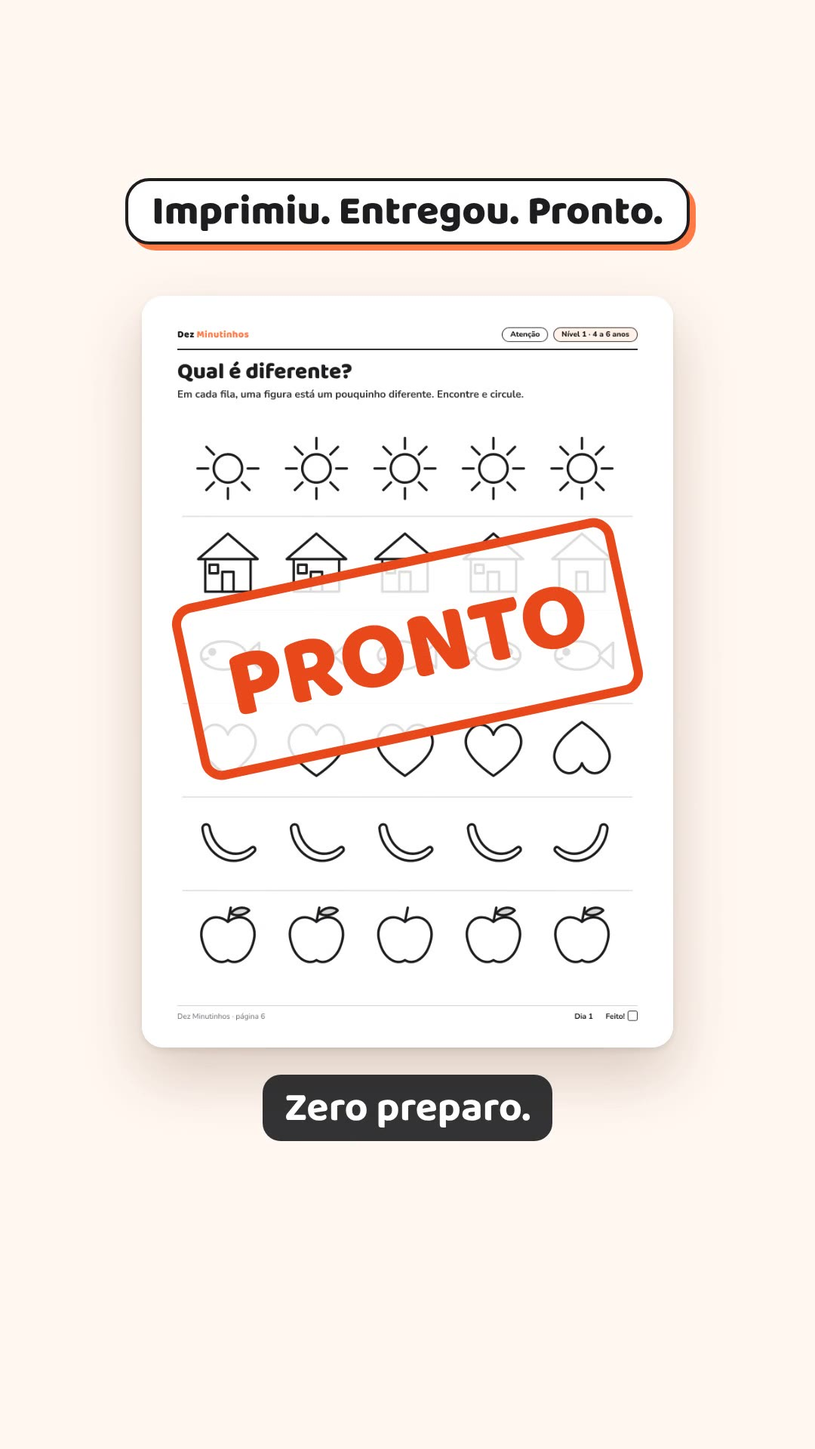
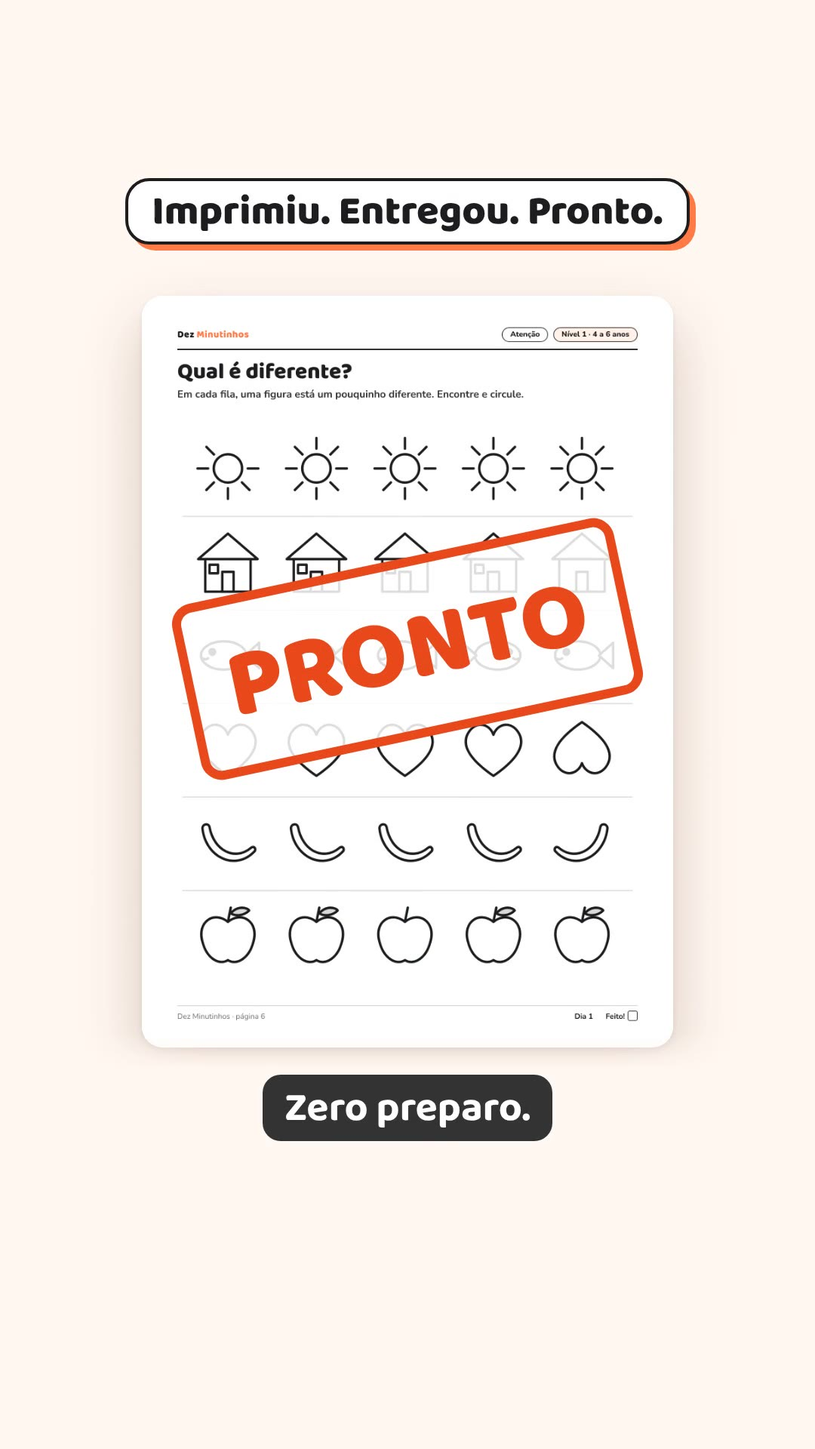
Criativos: correções da rodada 2 (entradas acima da legenda, 'com o quadro', título do A4, roteiros atualizados)
Claude-Session: https://claude.ai/code/session_01DxZEAG6Tfjg4F3k7618x95

Changed region(s): [[0.2139, 0.7188, 0.7944, 0.75]]

diff --git a/ofertas/2026-11-26_atividades-foco/criativos/montador/montador.py b/ofertas/2026-11-26_atividades-foco/criativos/montador/montador.py
@@ -63,7 +63,8 @@ ROTEIROS = {
     ],
     2: [
         F("Imprimiu, entregou, pronto.", "Imprimiu, entregou, pronto.",
-          {"tipo": "carimbo", "pag": 6, "titulo": "Imprimiu. Entregou. Pronto."}),
+          # a página sobe DENTRO da janela (acima da legenda) e já aparece no 1º quadro (miniatura do vídeo)
+          {"tipo": "carimbo", "pag": 6, "sobe": 260, "janela": True, "titulo": "Imprimiu. Entregou. Pronto."}),
         F("Zero preparo.", "Zero preparo."),
         F("O plano já diz | as duas folhas de cada dia.", "O plano já diz | as 2 folhas de cada dia.",
           {"tipo": "partes", "titulo": "O plano já separou as folhas", "partes": [
@@ -88,7 +89,7 @@ ROTEIROS = {
         F("Vídeo de desenho também.", "Vídeo de desenho também.",
           {"tipo": "texto", "escuro": True, "linhas": ["Vídeo de desenho", "também."]}),
         F("Quer o mesmo tipo de desafio, | só que no papel?", "Quer o mesmo tipo de desafio, | só que no papel?",
-          {"tipo": "atividade", "pag": 75, "revelar": False, "entrada": "baixo", "titulo": "O mesmo desafio. No papel."}),
+          {"tipo": "atividade", "pag": 75, "revelar": False, "entrada": "baixo", "janela": True, "titulo": "O mesmo desafio. No papel."}),
         F("Labirinto, sudoku, | sequência, jogo dos sete erros.", "Labirinto, sudoku, | sequência, jogo dos 7 erros.",
           {"tipo": "partes", "partes": [
               {"tipo": "atividade", "pag": 75, "titulo": "Labirinto"},
@@ -116,9 +117,11 @@ ROTEIROS = {
               {"tipo": "atividade", "pag": 13}, {"tipo": "atividade", "pag": 18}]}),
         F("Ligue os pontos.", "Ligue os pontos.", {"tipo": "atividade", "pag": 15, "titulo": "Traçado"}),
         F("Não precisa saber ensinar | nem montar rotina.", "Não precisa saber ensinar | nem montar rotina.",
-          {"tipo": "folheando", "titulo": "Sem saber ensinar · sem montar rotina"}),
-        F("O plano de trinta dias | já vem pronto, | com quadro de conquistas.",
-          "O plano de 30 dias | já vem pronto, | com quadro de conquistas.",
+          {"tipo": "folheando", "titulo": "Sem saber ensinar\nnem montar rotina"}),
+        # a voz diz "com O quadro" (24/24 leituras do whisper large-v3 e medium em recorte; ver correcoes.md,
+        # rodada 2); a legenda segue o áudio, como no "imprime e entrega" do A2
+        F("O plano de trinta dias | já vem pronto, | com o quadro de conquistas.",
+          "O plano de 30 dias | já vem pronto, | com o quadro de conquistas.",
           {"tipo": "partes", "titulo": "Plano pronto · quadro de conquistas", "partes": [
               {"tipo": "pagina", "pag": 5, "zoom": [1.0, 1.3], "foco": [50, 20], "janela": True},
               # zoom pequeno no centro: a página inteira termina acima da legenda (y < 704)
@@ -309,7 +312,7 @@ def html_cena(c):
         return "".join(f'<div class="mini m{i}"><img src="{pag_url(p)}" alt=""><span>{H.escape(r)}</span></div>'
                        for i, (p, r) in enumerate(zip(c["pags"], c["rotulos"])))
     if t == "carimbo":
-        return f'<div class="card pag sobe"><img src="{pag_url(c["pag"])}" alt=""></div><div class="carimbo">PRONTO</div>'
+        return janela(c, f'<div class="card pag sobe"><img src="{pag_url(c["pag"])}" alt=""></div>') + '<div class="carimbo">PRONTO</div>'
     if t == "imagem":
         return f'<img class="foto" src="{(IMG / c["src"]).as_uri()}" alt="">' + (LAPIS if c.get("lapis") else "")
     if t == "numeros":
@@ -339,7 +342,7 @@ html,body{width:540px;height:960px;overflow:hidden;background:#fff7f1;font-famil
 .escuro{background:#1d1d1f}.laranja{background:#ff7a45}
 #titulo{position:absolute;left:24px;right:24px;top:118px;z-index:5;text-align:center;display:none}
 #titulo span{display:inline-block;background:#fff;border:2.5px solid #1d1d1f;border-radius:16px;padding:6px 16px 4px;
-  font-family:'Baloo 2';font-weight:800;font-size:27px;line-height:1.1;box-shadow:4px 4px 0 #ff7a45;text-wrap:balance}
+  font-family:'Baloo 2';font-weight:800;font-size:27px;line-height:1.1;box-shadow:4px 4px 0 #ff7a45;text-wrap:balance;white-space:pre-line}
 #legenda{position:absolute;left:22px;right:22px;top:712px;height:100px;z-index:6;display:flex;align-items:flex-start;justify-content:center}
 #legenda span{background:rgba(29,29,31,.9);color:#fff;font-family:'Baloo 2';font-weight:700;font-size:27px;line-height:1.18;
   padding:7px 14px 5px;border-radius:12px;text-align:center;max-width:496px;text-wrap:balance}
@@ -442,7 +445,7 @@ const A = {
   carimbo(el, c, p, dt) {
     const card = el.querySelector('.card'), s = el.querySelector('.carimbo');
     const u = ease(cl(p / 0.42));
-    card.style.transform = `translateY(${(1 - u) * 760}px)`;
+    card.style.transform = `translateY(${(1 - u) * (c.sobe ?? 760)}px)`;
     const k = cl((p - 0.52) / 0.1);
     s.style.opacity = k; s.style.transform = `translate(-50%,-50%) rotate(-12deg) scale(${2.2 - 1.2 * ease(k)})`;
   },

diff --git a/ofertas/2026-11-26_atividades-foco/criativos/roteiros.md b/ofertas/2026-11-26_atividades-foco/criativos/roteiros.md
@@ -12,14 +12,17 @@ Etapa 6 (roteiros) · 2026-11-26 · base: `briefing.md` (5 ângulos), `dossie.md
   2,5 palavras por segundo. Se a fala passar do tempo, corte palavra, não acelere a voz.
 - **Imagens: só o produto real.** Páginas do PDF `final/dez-minutinhos.pdf` (número da página
   indicado em cada cena), `pagina/img/mockup-capa.png`, `pagina/img/mockup-pacote.png`,
-  `pagina/img/amostra-nivel1.jpg`, `pagina/img/amostra-nivel2.jpg`, `pagina/img/folheando.gif` e o
-  vídeo `folheando.mp4` (caminho a confirmar; supus `pagina/img/folheando.mp4`).
+  `pagina/img/folheando.gif` e o
+  vídeo `pagina/img/folheando.mp4`. Os vídeos são montados por `criativos/montador/montador.py` (as tabelas
+  abaixo descrevem o que foi montado; tempos reais da fala).
   Animações feitas sobre as páginas: traço de lápis resolvendo o labirinto, círculos aparecendo,
   folha dobrando. Se aparecer mão ou lápis, só em ilustração plana simples.
 - **Proibido em cena:** rosto de criança, qualquer pessoa real, "mãe" ou "criança" gerada por IA,
   cena gerada que pareça real, celular/tablet fotorrealista (a "tela" dos ganchos é só tipografia).
 - **Texto na tela:** fonte da página, fundo claro, no máximo 7 palavras por vez, fora das áreas de
-  interface do Reels/Stories (margem de 250 px em cima e 340 px embaixo).
+  interface do Reels/Stories: **título abaixo de 200 px do topo e legenda acima de 250 px da base** (a mesma
+  regra da skill `revisar-criativos`). Medido nos 4 vídeos (2026-11-28, todos os quadros a 2 por segundo): o texto
+  mais alto começa em y 236 e o mais baixo termina em y 1583 (336 px acima da base).
 - **Cartão final (igual nos 4 vídeos):** `mockup-capa.png` + "Dez Minutinhos" + "120 atividades
   para imprimir · 4 a 10 anos" + "R$ 37,00" + "Garantia de 7 dias" + botão desenhado "Toque em Saiba mais".
   A legenda do fecho fica clara e bem abaixo do botão (só o botão é escuro). Montado assim desde 2026-11-28 (rodada 2 dos criativos).
@@ -36,10 +39,10 @@ Resumo:
 
 | # | Ângulo | Modela | Gancho (0–3 s) | Fala | Vídeo |
 |---|---|---|---|---|---|
-| 1 | Curiosidade | 1534227 | "Isto é o que cabe em dez minutinhos de papel e lápis." | 58 palavras ≈ 23 s | 25 s |
-| 2 | Objeção: preparo e preço | 1534245 | "Imprimiu, entregou, pronto. Zero preparo." | 57 palavras ≈ 23 s | 25 s |
-| 3 | Objeção: tela | 1534248 | "App educativo continua sendo tela." | 53 palavras ≈ 21 s | 23 s |
-| 4 | Desejo: troca | 1534234 | "Troque dez minutos de tela por dez minutos disto." | 52 palavras ≈ 21 s | 22 s |
+| 1 | Curiosidade | 1534227 | "Isto é o que cabe em dez minutinhos de papel e lápis." | 58 palavras · 21,1 s gravados | 22,1 s |
+| 2 | Objeção: preparo e preço | 1534245 | "Imprimiu, entregou, pronto. Zero preparo." | 57 palavras · 20,6 s gravados | 21,6 s |
+| 3 | Objeção: tela | 1534248 | "App educativo continua sendo tela." | 53 palavras · 21,9 s gravados | 22,9 s |
+| 4 | Desejo: troca | 1534234 | "Troque dez minutos de tela por dez minutos disto." | 53 palavras · 21,5 s gravados | 22,5 s |
 | 5 | Ocasião: férias (estático) | 1599489 | "Férias. O que tem para fazer hoje?" (escrito) | — | — |
 
 ---
@@ -59,11 +62,14 @@ a curiosidade vem do próprio produto aparecendo.
 
 | Tempo | Mídia real | Texto na tela | Narração |
 |---|---|---|---|
-| 0–4,5 s | Labirinto N1 (p. 7), traço animado do início até a saída | Isto cabe em 10 minutinhos | Isto é o que cabe em dez minutinhos de papel e lápis. |
-| 4,5–9 s | Cortes de ~1 s: memória "Olhe e lembre" (p. 11) → sudoku de figuras (p. 18) → código secreto N2 (p. 78), cada um com uma animação curta (círculo, figura entrando na casa, letra aparecendo) | Labirinto · Memória · Sudoku · Código secreto (uma palavra por corte) | Um labirinto. Um jogo de memória. Um sudoku. Um código secreto. |
-| 9–14 s | `folheando.mp4` | 120 atividades · 4 a 10 anos | Cento e vinte atividades prontas para imprimir, de quatro a dez anos. |
-| 14–19,5 s | Plano de 30 dias N1 (p. 5), zoom na linha do Dia 1 → miniaturas das p. 6 e 7 | Plano de 30 dias · 2 folhas por dia | O plano de trinta dias já diz as duas folhas de cada dia. |
-| 19,5–25 s | Cartão final | Dez Minutinhos · R$ 37,00 · Saiba mais | Dez Minutinhos, trinta e sete reais. Toque em saiba mais. |
+| 0–3,4 s | Labirinto N1 (p. 7), caminho do gabarito se desenhando | Isto cabe em 10 minutinhos | Isto é o que cabe em dez minutinhos de papel e lápis. |
+| 3,4–4,5 s | Labirinto N2 (p. 75), caminho se desenhando | Labirinto | Um labirinto. |
+| 4,5–5,8 s | Memória "Olhe e lembre" (p. 11), resposta aparecendo | Memória | Um jogo de memória. |
+| 5,8–6,8 s | Sudoku de figuras (p. 18), figuras entrando | Sudoku | Um sudoku. |
+| 6,8–8,5 s | Código secreto N2 (p. 78), letras aparecendo | Código secreto | Um código secreto. |
+| 8,5–13,1 s | `folheando.mp4` | 120 atividades · 4 a 10 anos | Cento e vinte atividades prontas para imprimir, de quatro a dez anos. |
+| 13,1–16,7 s | Plano de 30 dias N1 (p. 5), zoom no Dia 1 (dentro da janela acima da legenda) → p. 6 e 7 lado a lado ("Dia 1 · folha 1/2") | Plano de 30 dias · 2 folhas por dia | O plano de trinta dias já diz as duas folhas de cada dia. |
+| 16,7–22,1 s | Cartão final | — (cartão) | Dez Minutinhos, trinta e sete reais. Toque em saiba mais. |
 
 **Chamada final:** "Dez Minutinhos, trinta e sete reais. Toque em saiba mais."
 
@@ -73,7 +79,7 @@ a curiosidade vem do próprio produto aparecendo.
 > O plano de trinta dias já diz as duas folhas de cada dia. Dez Minutinhos, trinta e sete reais.
 > Toque em saiba mais.
 
-58 palavras ≈ 23 s de fala.
+58 palavras · 21,1 s de fala gravada.
 
 **Anúncio**
 - **Texto principal:**
@@ -99,19 +105,22 @@ curta de impacto → o que é → "monta em menos de 5 minutos" (aqui: zero prep
 R$ 37,00 ÷ 30 = R$ 1,23) → link. Sai a prova social difusa e a promessa de "calma e confiança".
 
 **Gancho (0–3 s)**
-- Visual: a página "Qual é diferente?" (N1, p. 6) sobe de baixo da tela como se saísse da
-  impressora (sem impressora na cena) e recebe um carimbo desenhado "PRONTO".
+- Visual: a página "Qual é diferente?" (N1, p. 6) sobe como se saísse da impressora (sem impressora
+  na cena), dentro da janela acima da legenda, e recebe um carimbo desenhado "PRONTO". No 1º quadro
+  (miniatura) já aparecem o título e a instrução da página, sem nada por cima.
 - Escrito: **"Imprimiu. Entregou. Pronto."**
 - Falado: "Imprimiu, entregou, pronto. Zero preparo."
 
 | Tempo | Mídia real | Texto na tela | Narração |
 |---|---|---|---|
-| 0–3 s | Página p. 6 subindo + carimbo "PRONTO" | Imprimiu. Entregou. Pronto. | Imprimiu, entregou, pronto. Zero preparo. |
-| 3–7 s | Plano N1 (p. 5), destaque no Dia 1 → p. 6 e p. 7 lado a lado | O plano já separou as folhas | O plano já diz as duas folhas de cada dia. |
-| 7–10 s | `mockup-pacote.png` + lápis ilustrado (plano, sem mão) entrando pela lateral | Abre · imprime · entrega | Abre, imprime e entrega com um lápis. (a voz gravada diz "e"; a legenda segue o áudio) |
-| 10–13 s | Gabarito (p. 128), zoom numa resposta | Gabarito completo | As respostas estão no gabarito. |
-| 13–19,5 s | `mockup-capa.png`; números entram em sequência | 120 atividades · R$ 37,00 → R$ 1,23 por dia no plano de 30 dias | Cento e vinte atividades por trinta e sete reais. Um real e vinte e três por dia, no plano de trinta dias. |
-| 19,5–25 s | `folheando.mp4` → cartão final | Imprime de novo quando quiser · Saiba mais | E imprime de novo quando quiser. Toque em saiba mais. |
+| 0–3,5 s | Página p. 6 subindo (dentro da janela) + carimbo "PRONTO" | Imprimiu. Entregou. Pronto. | Imprimiu, entregou, pronto. Zero preparo. |
+| 3,5–6,2 s | Plano N1 (p. 5), zoom no Dia 1 → p. 6 e p. 7 lado a lado | O plano já separou as folhas | O plano já diz as duas folhas de cada dia. |
+| 6,2–9,0 s | `mockup-pacote.png` + lápis ilustrado (plano, sem mão) entrando pela lateral | Abre · imprime · entrega | Abre, imprime e entrega com um lápis. (a voz gravada diz "e"; a legenda segue o áudio) |
+| 9,0–10,9 s | Gabarito (p. 128), zoom numa resposta | Gabarito completo | As respostas estão no gabarito. |
+| 10,9–14,0 s | `mockup-capa.png`; "120 atividades" e depois "R$ 37,00" | Uma vez só | Cento e vinte atividades por trinta e sete reais. |
+| 14,0–17,3 s | `mockup-capa.png`; "R$ 1,23" e depois "por dia no plano / de 30 dias" (sem seta entre os preços) | Faça a conta | Um real e vinte e três por dia, no plano de trinta dias. |
+| 17,3–19,2 s | `folheando.mp4` | Imprime de novo quando quiser | E imprime de novo quando quiser. |
+| 19,2–21,6 s | Cartão final | — (cartão) | Toque em saiba mais. |
 
 **Chamada final:** "E imprime de novo quando quiser. Toque em saiba mais."
 
@@ -121,7 +130,7 @@ R$ 37,00 ÷ 30 = R$ 1,23) → link. Sai a prova social difusa e a promessa de "c
 > trinta e sete reais. Um real e vinte e três por dia, no plano de trinta dias. E imprime de novo
 > quando quiser. Toque em saiba mais.
 
-57 palavras ≈ 23 s de fala.
+57 palavras · 20,6 s de fala gravada.
 
 **Anúncio**
 - **Texto principal:**
@@ -158,11 +167,12 @@ inventado (CLAUDE.md, regra 3). A "dor" da criança que não para sentada sai; f
 
 | Tempo | Mídia real | Texto na tela | Narração |
 |---|---|---|---|
-| 0–4 s | Tipografia animada (sem aparelho na cena) | App educativo = tela · Vídeo também | App educativo continua sendo tela. Vídeo de desenho também. |
-| 4–8 s | Labirinto N2 (p. 75) entra por cima do texto e ocupa a tela | O mesmo desafio. No papel. | Quer o mesmo tipo de desafio, só que no papel? |
-| 8–12 s | Cortes de ~1 s: labirinto p. 75 com traço → sudoku 6×6 (p. 69) com números entrando → "O que vem depois?" (p. 8) → jogo dos 7 erros (p. 68) com círculos aparecendo | Labirinto · Sudoku · Sequência · 7 erros | Labirinto, sudoku, sequência, jogo dos sete erros. |
-| 12–18,5 s | Tela dividida: `amostra-nivel1.jpg` em cima, `amostra-nivel2.jpg` embaixo | Nível 1 · 4 a 6 anos · sem leitura / Nível 2 · 7 a 10 anos | Dois níveis: de quatro a seis anos, sem precisar ler, e de sete a dez. |
-| 18,5–23 s | Cartão final | Dez Minutinhos · 120 atividades · Saiba mais | Dez Minutinhos: cento e vinte atividades para imprimir. Toque em saiba mais. |
+| 0–2,5 s | Tipografia em fundo escuro: "App educativo", "educativo" riscado, "= tela" (sem aparelho na cena) | — (tipografia) | App educativo continua sendo tela. |
+| 2,5–4,2 s | Tipografia em fundo escuro: "Vídeo de desenho / também." | — (tipografia) | Vídeo de desenho também. |
+| 4,2–7,0 s | Labirinto N2 (p. 75) sobe de baixo, dentro da janela acima da legenda | O mesmo desafio. No papel. | Quer o mesmo tipo de desafio, só que no papel? |
+| 7,0–11,2 s | Cortes de ~1 s: labirinto p. 75 com traço → sudoku 6×6 (p. 69) com números entrando → "O que vem depois?" (p. 8) → jogo dos 7 erros (p. 68) com círculos aparecendo | Labirinto · Sudoku · Sequência · 7 erros | Labirinto, sudoku, sequência, jogo dos sete erros. |
+| 11,2–16,3 s | Duas páginas lado a lado: p. 6 (Nível 1) e p. 78 (Nível 2) | Dois níveis (rótulos: "Nível 1 · 4 a 6 anos · sem leitura" / "Nível 2 · 7 a 10 anos") | Dois níveis: de quatro a seis anos, sem precisar ler, e de sete a dez. |
+| 16,3–22,9 s | Cartão final | — (cartão) | Dez Minutinhos: cento e vinte atividades para imprimir. Toque em saiba mais. |
 
 **Chamada final:** "Dez Minutinhos: cento e vinte atividades para imprimir. Toque em saiba mais."
 
@@ -172,7 +182,7 @@ inventado (CLAUDE.md, regra 3). A "dor" da criança que não para sentada sai; f
 > sem precisar ler, e de sete a dez. Dez Minutinhos: cento e vinte atividades para imprimir. Toque
 > em saiba mais.
 
-53 palavras ≈ 21 s de fala.
+53 palavras · 21,9 s de fala gravada.
 
 **Anúncio**
 - **Texto principal:**
@@ -200,31 +210,32 @@ sendo feitas → "não precisa ser professor nem rotina complicada" → link. Sa
 trocando…" (prova social difusa); a troca vira convite direto.
 
 **Gancho (0–3 s)**
-- Visual: tipografia "10 min de TELA" em fundo escuro → corte seco (com som de "clique") para a
+- Visual: tipografia "10 min de TELA" em fundo escuro → corte seco para a
   página "O que vem depois?" (N1, p. 8), fundo claro, com "10 min DISTO".
 - Escrito: **"10 min de tela → 10 min disto"**
 - Falado: "Troque dez minutos de tela por dez minutos disto."
 
 | Tempo | Mídia real | Texto na tela | Narração |
 |---|---|---|---|
-| 0–3,5 s | Tipografia escura → corte seco → p. 8 | 10 min de tela → 10 min disto | Troque dez minutos de tela por dez minutos disto. |
-| 3,5–5 s | p. 8, lápis ilustrado completando a sequência | Padrões | Padrões para completar. |
-| 5–8 s | "Olhe e lembre" (p. 11): a folha dobra na linha (animação) e a pergunta aparece | Memória | Memória: olha, dobra a folha e responde. |
-| 8–10 s | Labirinto (p. 13) com traço → sudoku de figuras (p. 18) | Lógica | Lógica, com labirinto e sudoku. |
-| 10–11,5 s | Ligue os pontos (p. 15), traço ligando os números até formar o desenho | Traçado | Ligue os pontos. |
-| 11,5–14,5 s | `folheando.mp4` | Sem saber ensinar · Sem montar rotina | Não precisa saber ensinar nem montar rotina. |
-| 14,5–19 s | Plano de 30 dias (p. 5) → quadro de conquistas (p. 142) → certificado (p. 143) | Plano de 30 dias pronto · quadro de conquistas | O plano de trinta dias já vem pronto, com quadro de conquistas. |
-| 19–22 s | Cartão final | Dez Minutinhos · Saiba mais | Dez Minutinhos. Toque em saiba mais. |
+| 0–3,3 s | Tipografia escura "10 min / de tela" → corte seco → p. 8 | — (tipografia) → 10 min disto | Troque dez minutos de tela por dez minutos disto. |
+| 3,3–4,9 s | p. 8 com a resposta aparecendo | Padrões | Padrões para completar. |
+| 4,9–8,1 s | "Olhe e lembre" (p. 11): zoom do quadro de cima para a página toda, resposta aparecendo | Memória | Memória: olha, dobra a folha e responde. |
+| 8,1–10,5 s | Labirinto (p. 13) com traço → sudoku de figuras (p. 18) | Lógica | Lógica, com labirinto e sudoku. |
+| 10,5–11,8 s | Ligue os pontos (p. 15), traço ligando os números até formar o desenho | Traçado | Ligue os pontos. |
+| 11,8–14,6 s | `folheando.mp4` | Sem saber ensinar / nem montar rotina (2 linhas) | Não precisa saber ensinar nem montar rotina. |
+| 14,6–18,5 s | Plano de 30 dias (p. 5) → quadro de conquistas (p. 142) → certificados (p. 143) | Plano pronto · quadro de conquistas | O plano de trinta dias já vem pronto, com o quadro de conquistas. (a voz gravada diz "com o"; a legenda segue o áudio) |
+| 18,5–22,5 s | Cartão final | — (cartão) | Dez Minutinhos. Toque em saiba mais. |
 
 **Chamada final:** "Dez Minutinhos. Toque em saiba mais."
 
 **Narração completa:**
 > Troque dez minutos de tela por dez minutos disto. Padrões para completar. Memória: olha, dobra a
 > folha e responde. Lógica, com labirinto e sudoku. Ligue os pontos. Não precisa saber ensinar nem
-> montar rotina. O plano de trinta dias já vem pronto, com quadro de conquistas. Dez Minutinhos.
+> montar rotina. O plano de trinta dias já vem pronto, com o quadro de conquistas. Dez Minutinhos.
 > Toque em saiba mais.
 
-52 palavras ≈ 21 s de fala.
+53 palavras · 21,5 s de fala gravada. (O texto enviado à voz foi "com quadro"; a gravação diz "com o", e o
+roteiro e a legenda seguem o áudio. Ver `revisoes/criativos-2026-11-28/correcoes.md`, rodada 2.)
 
 **Anúncio**
 - **Texto principal:**
@@ -313,5 +324,4 @@ secreto p. 78; 5) plano p. 5 "30 dias · 2 folhas por dia · R$ 37,00".
   gabarito (p. 128), quadro de conquistas (p. 142), certificados (p. 143), bônus 2 (p. 146).
 - Código secreto, caça-palavras, sudoku 6×6 e jogo dos 7 erros são do Nível 2; nos criativos 1 e 3
   eles aparecem na lista geral, sem atribuir a idade errada.
-- Pendências: confirmar o caminho de `folheando.mp4`; definir UTMs; o título do criativo 4 depende
-  da escolha final do título da página pelo dono.
+- Pendência: definir UTMs (Etapa 7).

diff --git a/ofertas/2026-11-26_atividades-foco/revisoes/criativos-2026-11-28/correcoes.md b/ofertas/2026-11-26_atividades-foco/revisoes/criativos-2026-11-28/correcoes.md
@@ -66,3 +66,80 @@ sha256 (início): mp4 1 `998a9b40…`, 2 `6c27ae78…`, 3 `bcf87fbc…`, 4 `b84f
 
 **Fica para a revisão da rodada 2:** pela skill, todos os criativos que mudaram (os 4 vídeos, as 2 imagens e os textos dos
 anúncios 1, 2, 4 e 5) têm de ser revisados de novo. Esta correção não substitui essa revisão. Só depois vem o Portão C.
+
+## Rodada 2
+
+- Data: 2026-11-28 · Base: `rodada2.md` (6 cosméticos: A2-1, A3-1, A4-1, A4-2, C-1, R-1). Os 6 corrigidos; nenhum "aceito como está".
+- Material intocado: `python3 ferramentas/conferir_material.py ofertas/2026-11-26_atividades-foco` → "MATERIAL APROVADO" (8 PDFs).
+- Nada publicado, nada enviado à Meta nem à Hotmart. Sem commit e sem push.
+- **Remontados só os vídeos 2, 3 e 4**, com o mesmo áudio e a mesma duração (21,63 / 22,90 / 22,50 s) e as mesmas fronteiras
+  em pausas (8/8, 6/6, 8/8). O A1 e o A5 (estáticos) não mudaram: a C-1 foi resolvida no roteiro, porque os 4 vídeos já cumprem a regra da skill.
+
+| Item | Arquivo | O que foi feito | Conferido |
+|---|---|---|---|
+| A2-1 · página do A2 sobe por baixo da legenda (0,0–0,9 s) e miniatura | `criativos/montador/montador.py` (cena `carimbo`: opções `janela` e `sobe`) | A p. 6 sobe **dentro da `janela`** (termina em y 1416 com fade, acima da legenda em y 1424) e parte de 260 px abaixo da posição final (era 760 px, fora da tela). No 1º quadro (miniatura) já aparecem o título "Imprimiu. Entregou. Pronto.", o cabeçalho, "Qual é diferente?" e a instrução "Em cada fila…", sem nada por cima; a legenda só entra aos 0,02 s, também abaixo da página. O carimbo "PRONTO" fica fora da janela (não é cortado) | Quadros de 0,0 a 1,2 s a cada 0,1 s; quadro 0,0 s em tamanho grande; folha do A2 a 2 qps |
+| A3-1 · p. 75 passa sob a legenda (4,25–4,6 s) | `montador.py` (cena do A3 com `entrada: "baixo"` agora com `janela`) | A entrada de baixo roda dentro da `janela`: o labirinto aparece saindo da linha acima da legenda e nunca passa por baixo dela | Quadros de 4,20 a 4,80 s a cada 1/15 s (10 quadros); folha do A3 a 2 qps |
+| A4-1 · "com quadro" × "com o quadro" (16,9–18,5 s) | `montador.py` (narração e legenda), `criativos/roteiros.md` | **Legenda passou a "com o quadro de conquistas."** (5 palavras, 1 linha, entra aos 17,05 s). O roteiro também. Áudio sem mudança. Decisão e evidência abaixo | Quadro 17,5 s em tamanho grande; folha do A4 a 2 qps; tempos em `montador/tmp/anuncio-4-amandinha.json` |
+| A4-2 · título com "·" pendurado e sem margem (11,8–14,6 s) | `montador.py` (título da cena `folheando` do A4 e CSS do `#titulo`) | Título em 2 linhas fixas, sem "·": "Sem saber ensinar" / "nem montar rotina" (como a fala). O `#titulo` aceita quebra explícita (`white-space: pre-line`); nenhum outro título tem quebra, então nada mais muda. A caixa vai de x ≈ 274 a 806 px: margem lateral de ~274 px (os outros ficam a ≥ 150 px) | Quadro 12,5 s em tamanho grande; folha do A4 (12,0–14,5 s) |
+| C-1 · margem do roteiro ≠ skill | `criativos/roteiros.md` (Regras de produção, "Texto na tela") | Regra única, a da skill `revisar-criativos`: título abaixo de 200 px do topo e legenda acima de 250 px da base | Medido por pixel em **todos** os quadros a 2 qps dos 4 vídeos (44 + 43 + 46 + 45): o conteúdo mais alto começa em y 236 nos 4 e o mais baixo termina em y 1583 nos 4 (336 px acima da base). Os 4 cumprem |
+| R-1 · roteiro desatualizado | `criativos/roteiros.md` | Tabelas de cena refeitas pelo vídeo montado, com os tempos reais das frases (`montador/tmp/anuncio-N-amandinha.json`): **A1** com uma linha por corte, incluindo o labirinto N2 (p. 75) aos 3,4 s; **A2** sem a seta entre preços, com os títulos "Uma vez só" (10,9–14,0 s) e "Faça a conta" (14,0–17,3 s) e a página subindo dentro da janela; **A3** com a p. 6 e a p. 78 lado a lado (sem `amostra-nivel1/2.jpg`) e as duas telas de tipografia separadas; **A4** com o título novo, a fala "com o quadro" e sem o "som de clique" (os vídeos não têm efeito sonoro). Resumo: vídeos de 22,1 / 21,6 / 22,9 / 22,5 s e fala gravada de 21,1 / 20,6 / 21,9 / 21,5 s. Saíram as pendências resolvidas (caminho do `folheando.mp4`, título do criativo 4) e as amostras que não aparecem em nenhum criativo; ficou só "definir UTMs" | Roteiro relido inteiro contra as folhas de contato dos 4 vídeos e o `videos/LEIA.md` |
+
+### Decisão do item A4-1: "com **o** quadro"
+
+Trecho ouvido: 16,5–18,0 s (e recortes de 16,3–18,3 s e 15,5–18,5 s), no `audio/amandinha-4.mp3` e no áudio do próprio `.mp4`.
+
+- **Leituras do faster-whisper com tempo por palavra (beam 5 e beam 1, sem contexto anterior):**
+  - large-v3: 12 de 12 leituras ouvem "com **o** quadro" (probabilidade do "o" entre 0,73 e 0,96).
+  - medium: 12 de 12 ouvem o "o" (0,72 a 0,86).
+  - Total: **24 de 24** em recorte. Na rodada 2, só o small e o large-v3 no arquivo inteiro não ouviram.
+- **Análise do sinal** (energia e periodicidade a cada 5 ms e espectrograma de 16,7 a 17,4 s; trabalho em
+  `/tmp/claude-0/-home-user/2250d25c-d581-568f-b4e4-6cb893f20944/scratchpad/r3/espectro*.png`):
+  - "pronto" termina em ~16,92 s;
+  - estouro do /k/ de "com" em ~17,00 s;
+  - vogal nasal forte de 17,04 a 17,13 s (~90 ms, cerca de −20 dB);
+  - **segmento sonoro fraco de ~60 ms (17,14–17,20 s, cerca de −40 dB)**;
+  - fechamento e estouro do /k/ de "quadro" em 17,21–17,25 s.
+  - Para comparar, o "com" de "com labirinto" (9,04–9,20 s, mesmo áudio) tem ~160 ms de vogal forte contínua. Aqui o
+    trecho sonoro entre os dois /k/ também tem ~160 ms, mas em duas partes, e a segunda é fraca.
+- **Leitura da análise:**
+  - Não aparece uma vogal "o" plena e separada (60–120 ms com a força de uma vogal).
+  - O segmento de ~60 ms entre a vogal nasal e o /k/ é compatível com o "o" átono fundido ao "com" ([kõũ], o
+    "co'o" do português falado). Também seria compatível com o fim nasal do "com". O sinal sozinho não decide.
+- **Decisão:** legenda e roteiro passam a **"com o quadro de conquistas."**
+  - Todas as leituras de modelo ouvem o "o", e o sinal tem a duração mínima de um "o" fundido.
+  - Quem assiste tende a ouvir "com o", como o whisper. A legenda "com o" não fica errada nem se a voz tiver dito "com"
+    fundido, porque o "o" átono fundido é a pronúncia normal de "com o".
+  - Mesmo critério do "imprime e entrega" do A2: a legenda segue o áudio, sem regravar.
+  - O texto enviado ao ElevenLabs foi "com quadro" (`roteiros.md` antigo).
+  - Se o dono ouvir 17,0–17,3 s e preferir "com quadro", basta voltar o texto no `montador.py` e remontar só o A4.
+
+### Arquivos regenerados (rodada 2)
+
+| Arquivo | sha256 |
+|---|---|
[3 lines of base64/hex data omitted]
+| `criativos/videos/quadro-anuncio-2.jpg` (3,2 s, `-q:v 3`) | `6d92d52b5043…` |
+| `criativos/videos/quadro-anuncio-4.jpg` (11,1 s, `-q:v 3`) | `2be7a930fbfb…` |
+
+- `qc.py` rodou nos 3 vídeos: 1080×1920, 30 fps, h264 + aac, pico −1,5 dB, durações iguais às de antes.
+- Sem mudança:
+  - `anuncio-1-amandinha.mp4` (`998a9b40…`) e `quadro-anuncio-1.jpg`;
+  - `quadro-anuncio-3.jpg`: o quadro de 1,4 s do vídeo novo é idêntico pixel a pixel ao anterior;
+  - as 2 imagens estáticas.
+- Os quadros 2 e 4 mostram a mesma cena de antes. Foram refeitos porque o .mp4 mudou.
+
+### Como foi olhado (rodada 2)
+
+- **Folhas de contato a 2 qps** dos vídeos 2, 3 e 4 inteiros (44 + 47 + 46 quadros), depois da montagem final.
+- **Entradas em alta frequência:**
+  - A2 de 0,0 a 1,2 s (13 quadros, a cada 0,1 s);
+  - A3 de 4,20 a 4,80 s (10 quadros, a cada 1/15 s).
+- **Quadros grandes (1080×1920):** A2 0,0 s (miniatura), A4 12,5 s (título novo) e A4 17,5 s (legenda "com o quadro de conquistas.").
+- **Os 2 quadros de referência novos.**
+- **Medição por pixel da área segura** em todos os quadros a 2 qps dos 4 vídeos (item C-1).
+
+**Fica para a rodada 3:**
+- revisar os vídeos 2, 3 e 4 e o `roteiros.md`;
+- o A1 e o A5 não mudaram (pela R12, da 4ª rodada em diante só o que mudou).

diff --git a/ofertas/2026-11-26_atividades-foco/status.md b/ofertas/2026-11-26_atividades-foco/status.md
@@ -51,3 +51,4 @@ Legenda: ⬜ a fazer · 🟡 em andamento · ✅ feito · ❌ reprovado/voltou
 - 2026-11-28 (Etapa 4b, correção da rodada 3): pendências dos 3 relatórios `rodada3-*.md` corrigidas no gerador e no montador. Trava nova no "O que vem depois?" (fila igual, girada ou deslocada não repete no caderno, no Volume 2 nem entre os dois; assert nos dois geradores); 9 cosméticos dos bumps; zoom dos anúncios 1 e 2 sem cortar a página. PDFs (caderno, bumps 3–6, Volume 2), zips, anúncios 1 e 2 e `quadro-anuncio-2.jpg` refeitos, só no local (nada publicado, nada enviado à Hotmart nem à Meta, sem commit). Paginação igual. Páginas alteradas em `revisoes/material-2026-11-28/correcoes.md` ("Rodada 3"). Motivo: regra 7. Pendente: revisão só das páginas que mudaram, Portão M e depois as trocas na Hotmart e na Meta.
 - 2026-11-28 (P2 dos criativos, Portão C 1.3–1.4): conformidade e textos dos 5 anúncios **aprovados com ajustes**. Motivo: nenhum atributo pessoal, promessa de resultado/saúde, antes/depois, urgência, prova inventada ou cópia da referência; voz sintética como narradora, sem pessoa realista, logo sem declaração de IA (tabela de ajustes do CLAUDE.md). Ajustes só de texto: A1 promete 4 atividades em 10 minutos (o plano é 2 folhas), A2 descrição só com R$ 1,23/dia, A4 sem "uma vez só", mais 6 cosméticos. Fora dos criativos: os anúncios A1–A5 já criados (pausados) usam os vídeos antigos e os IDs de vídeo em `campanha.md` não batem entre as duas tabelas; falta "Anunciante e pagador". Não ativar. Detalhes em `revisoes/criativos-2026-11-28/conformidade-e-textos.md`.
 - 2026-11-28 (Etapa 6b, correção da rodada 1 dos criativos): todos os itens de `revisoes/criativos-2026-11-28/conformidade-e-textos.md` e `tecnica-e-verdade.md` corrigidos, inclusive os cosméticos. Textos dos anúncios 1, 2 e 4 trocados pelo texto pronto da conformidade. Os 4 vídeos foram remontados com o mesmo áudio e a mesma duração: legenda no tempo real das palavras, zoom sem passar por baixo da legenda, "Memória" do A4, e fecho com "Garantia de 7 dias" e sem pílulas escuras empilhadas. `quadro-anuncio-1..4.jpg` refeitos. Estático 4:5 refeito (leque p. 7/68/78 do PDF aprovado, plano em texto) e 1:1 criado. A5 só de 2026-12-15 a 2027-02-28. Em `campanha.md`, aviso de que os anúncios pausados usam vídeos antigos. Material intocado ("MATERIAL APROVADO"). Nada publicado, nada enviado à Meta nem à Hotmart, sem commit. Detalhes em `revisoes/criativos-2026-11-28/correcoes.md`. Motivo: regra 7 (Portão C). Pendente: rodada 2 da revisão dos criativos que mudaram, Portão C e depois a troca de mídia e de textos nos 5 anúncios.
+- 2026-11-28 (Etapa 6b, correção da rodada 2 dos criativos): os 6 cosméticos de `revisoes/criativos-2026-11-28/rodada2.md` corrigidos (seção "Rodada 2" do `correcoes.md`). Vídeos 2, 3 e 4 remontados com o mesmo áudio e duração; A1 e A5 sem mudança. Decisão: a legenda do A4 passa a "com o quadro de conquistas" (24/24 leituras do whisper em recorte ouvem o "o"; o sinal mostra um "o" fundido, sem vogal plena). Roteiro atualizado pelos vídeos montados e margem unificada com a skill (200/250 px, medida: 236/336 px). Falta a rodada 3 da revisão e depois o Portão C. Nada publicado.

diff --git a/ofertas/2026-11-26_atividades-foco/criativos/videos/LEIA.md b/ofertas/2026-11-26_atividades-foco/criativos/videos/LEIA.md
@@ -14,6 +14,9 @@ e no gabarito (p. 128) agora para com a página inteira dentro do quadro (opçã
 e mesma duração: legenda cortada pelo tempo real de cada palavra (faster-whisper, `montador/palavras.py`), blocos
 marcados à mão sem partir "4 a 6 anos"/"30 dias"; zoom do plano, do gabarito e da memória dentro de uma janela que
 termina acima da legenda; fecho com "Garantia de 7 dias" e legenda clara, longe do botão. `quadro-anuncio-1..4.jpg` refeitos.
+**Anúncios 2, 3 e 4 remontados de novo em 2026-11-28 (rodada 2 dos criativos, seção "Rodada 2" do `correcoes.md`)**, mesmo áudio e
+mesma duração: a página que sobe no A2 (p. 6) e no A3 (p. 75) entra dentro da janela acima da legenda; título do A4 em 2 linhas
+("Sem saber ensinar" / "nem montar rotina"); legenda do A4 "com o quadro de conquistas." (a voz diz "com o"). `quadro-anuncio-2.jpg` e `-4.jpg` refeitos.
 Formato: 1080×1920 (9:16), 30 fps, H.264 + AAC 48 kHz, áudio normalizado (−16 LUFS, pico ≤ −1,4 dB).
 Sem música (não temos trilha licenciada). Legenda queimada em blocos de até 7 palavras (marcados com "|" no
 montador), cada bloco entrando no tempo real da 1ª palavra. Só mídia real do produto: atividades do caderno completo (com o gabarito
@@ -30,7 +33,7 @@ animado), páginas do PDF, mockups e o vídeo do caderno folheando. Sem pessoas,
 - **Anúncio 1:** Labirinto N1 (p. 7) com o caminho do gabarito se desenhando → cortes com a resposta aparecendo: labirinto N2 (p. 75), memória (p. 11), sudoku de figuras (p. 18), código secreto (p. 78) → caderno sendo folheado → plano de 30 dias (p. 5) com zoom no Dia 1 → folhas do Dia 1 (p. 6 e 7) → cartão final.
 - **Anúncio 2:** Página "Qual é diferente?" (p. 6) subindo + carimbo PRONTO → plano (p. 5) e folhas do Dia 1 → folhas espalhadas + lápis → gabarito (p. 128) → "120 atividades · R$ 37,00" → "R$ 1,23 por dia no plano de 30 dias" → caderno folheando → cartão final.
 - **Anúncio 3:** Tipografia em fundo escuro: "App educativo" com "educativo" riscado → "= tela"; "Vídeo de desenho também." → labirinto N2 (p. 75) subindo → cortes com resposta: labirinto, sudoku 6x6 (p. 69), sequência (p. 8), 7 erros (p. 68) → dois níveis lado a lado (p. 6 e p. 78) → cartão final.
-- **Anúncio 4:** "10 min de tela" em fundo escuro → corte para "O que vem depois?" (p. 8) → padrões com a resposta → memória (p. 11, zoom do quadro de cima para a página toda) → labirinto (p. 13) e sudoku (p. 18) → ligue os pontos (p. 15) se ligando → caderno folheando → plano (p. 5), quadro de conquistas (p. 142), certificado (p. 143) → cartão final.
+- **Anúncio 4:** "10 min de tela" em fundo escuro → corte para "O que vem depois?" (p. 8) → padrões com a resposta → memória (p. 11, zoom do quadro de cima para a página toda) → labirinto (p. 13) e sudoku (p. 18) → ligue os pontos (p. 15) se ligando → caderno folheando → plano (p. 5), quadro de conquistas (p. 142), certificados (p. 143) → cartão final.
 
 Fecho de todos: capa do caderno + "Dez Minutinhos · 120 atividades para imprimir · 4 a 10 anos ·
 R$ 37,00 · Garantia de 7 dias · Toque em Saiba mais", fundo laranja; a legenda do fecho é clara e fica bem abaixo do botão.

diff --git a/aprendizados/processo.md b/aprendizados/processo.md
@@ -46,6 +46,10 @@ O que **vende** fica em `o-que-vende.md`; aqui fica **como trabalhar** com menos
 - 2026-11-28 · Dez Minutinhos (criativos, rodada 1) · na imagem estática, uma miniatura de tabela (plano de 30 dias) nunca fica legível no celular, e um leque fechado esconde as páginas → tabela vira texto grande; o leque mostra cada página com o título visível; páginas rasterizadas do PDF aprovado (`pdftoppm`) e as mesmas que o roteiro cita; produzir todos os formatos que o roteiro lista (o 1:1 tinha ficado para trás).
 - 2026-11-28 · Dez Minutinhos (criativos, rodada 1) · texto de anúncio prometendo mais que o produto ("4 atividades em 10 minutos"; descrição só com "R$ 1,23 por dia") → cada campo do anúncio (título e descrição aparecem sozinhos em vários posicionamentos) tem de valer sozinho: preço com "uma vez só" e tempo igual ao da página ("2 folhas, uns 10 minutinhos").
 - 2026-11-28 · Dez Minutinhos (criativos, rodada 1) · anúncios criados antes do Portão C com vídeos antigos e IDs de vídeo diferentes entre as tabelas de `campanha.md` → nunca criar anúncio antes de "CRIATIVOS APROVADOS"; ao subir mídia, anotar o ID na mesma linha do anúncio que a usa.
+- 2026-11-28 · Dez Minutinhos (criativos, rodada 2) · a `janela` da rodada 1 só cobria os zooms, e as **entradas** animadas (página subindo de baixo no A2 e no A3) continuavam passando por baixo da legenda; no A2 o 1º quadro (miniatura do vídeo) saía quase vazio → toda cena que entra ou cresce para baixo roda dentro da `janela`, inclusive entradas; olhar o quadro 0,0 s em tamanho grande, porque ele é a miniatura.
+- 2026-11-28 · Dez Minutinhos (criativos, rodada 2) · título longo com separador ("Sem saber ensinar · sem montar rotina") quebrava com o "·" pendurado e encostava nas bordas → título de 2 linhas é escrito com quebra explícita ("\n", o título aceita `pre-line`) e sem "·"; margem lateral do título ≥ 150 px como os outros.
+- 2026-11-28 · Dez Minutinhos (criativos, rodada 2) · a voz sintética às vezes diz palavra que não está no texto enviado ("com **o** quadro"); o whisper ouve pela gramática, então leitura só de modelo não basta → recortar o trecho, comparar a duração da sílaba com a mesma palavra em outro ponto do áudio (espectrograma + energia) e registrar a decisão; na dúvida, a legenda segue o que se ouve (como o "imprime e entrega").
+- 2026-11-28 · Dez Minutinhos (criativos, rodada 2) · roteiro com margem diferente da skill (250/340 px × 200/250 px) e com tabelas de cena de antes da montagem → uma regra de margem só (a da skill `revisar-criativos`), medida nos quadros; depois de montar, atualizar no roteiro as cenas, títulos, durações e pendências pelo vídeo real (o `LEIA.md` não basta).
 
 ## Hotmart
 - 2026-11-27 · O e-mail de compra e o checkout mostram o nome do titular da conta (CPF) → os dados legais
